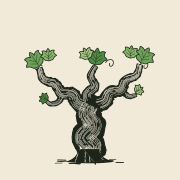
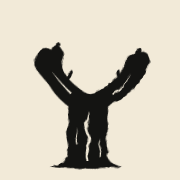
Icono: silueta negra de cepa vieja; nombre App Campo
Claude-Session: https://claude.ai/code/session_01Y2Tchz1rvEtSETUr6Yke4p

Changed region(s): [[0.1389, 0.2222, 0.8611, 0.9444]]

diff --git a/campo-torres-filoso-v5.html b/campo-torres-filoso-v5.html
@@ -7,11 +7,11 @@
 <meta name="theme-color" content="#1C2B1D">
 <meta name="apple-mobile-web-app-capable" content="yes">
 <meta name="apple-mobile-web-app-status-bar-style" content="black-translucent">
-<meta name="apple-mobile-web-app-title" content="Campo">
+<meta name="apple-mobile-web-app-title" content="App Campo">
 <link rel="manifest" href="manifest.json">
 <link rel="icon" type="image/png" sizes="192x192" href="icon-192.png">
 <link rel="apple-touch-icon" href="apple-touch-icon.png">
-<title>🌿 Campo · Torres Filoso</title>
+<title>App Campo · Torres Filoso</title>
 <link href="https://fonts.googleapis.com/css2?family=DM+Mono:wght@300;400;500&display=swap" rel="stylesheet">
 <link rel="stylesheet" href="https://unpkg.com/leaflet@1.9.4/dist/leaflet.css"/>
 <script src="https://unpkg.com/leaflet@1.9.4/dist/leaflet.js"></script>

diff --git a/sw.js b/sw.js
@@ -1,6 +1,6 @@
 // Service worker de Campo · Torres Filoso
 // Red primero: siempre intenta traer la versión nueva; si no hay conexión, usa la guardada.
-const CACHE = 'campo-tf-v2';
+const CACHE = 'campo-tf-v3';
 const BASE = [
   './campo-torres-filoso-v5.html',
   './manifest.json',
